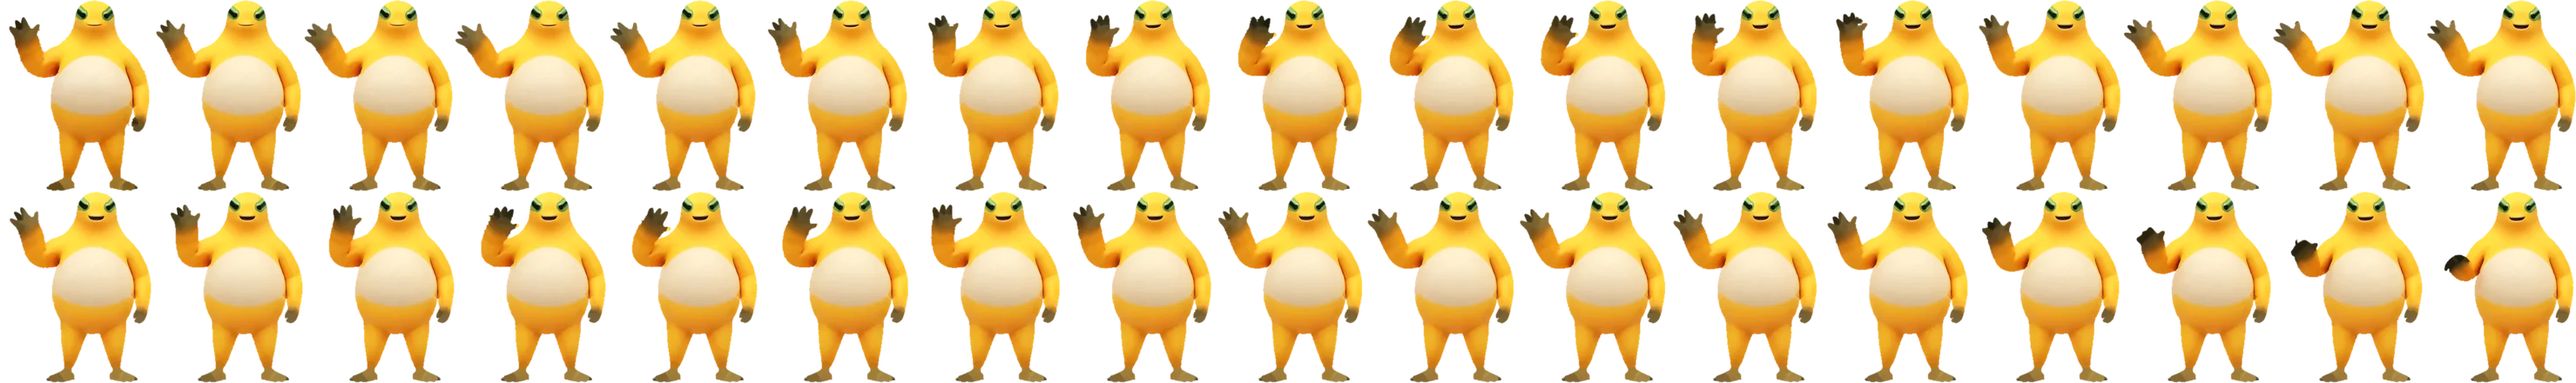
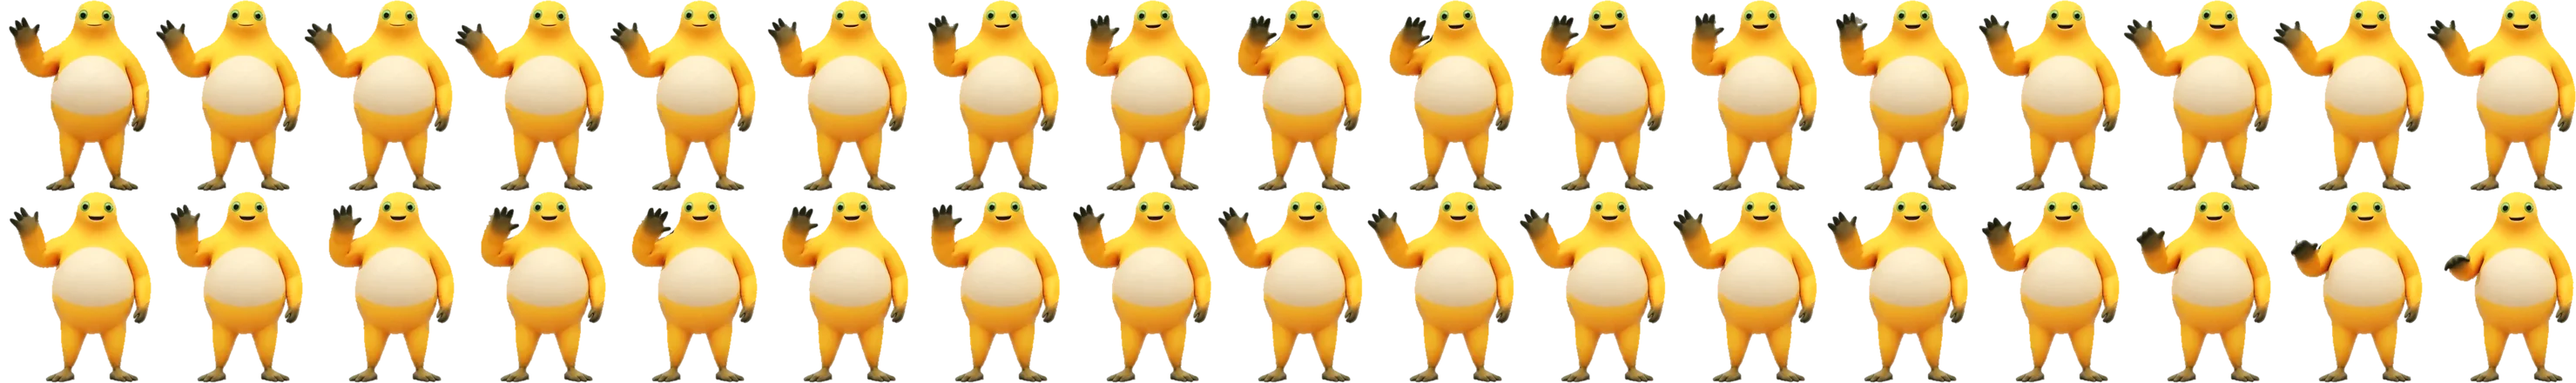
fix(deskpet): 挥手眼睛被压成斜块 + 打滚大笑亮度回调 0.9（第十一轮返工）

diff --git a/docs/Spec/SPEC-deskpet-action.md b/docs/Spec/SPEC-deskpet-action.md
@@ -833,3 +833,65 @@ bean-wave.webp              (232,166,40)
 可辨亮边，仍需用户目视 ②压暗 0.8 之后打滚/大笑会比站立明显暗一档，这是用户主动要的，
 但「暗一档是否好看」没有标准 ③挥手与打滚/大笑之间现在有约 1.2 倍亮度差，
 如果用户希望四支统一，需要再调一次方向。
+
+### 7.16 挥手的眼睛被压成斜块 + 打滚大笑亮度回调到 0.9（第十一轮返工）
+
+用户 2026-11-13 18:51 原话（附 106×87 截图）：「打滚和大笑亮度提高0.1 还有就是你看挥手，眼睛怎么变这样了」。
+
+**眼睛坏在哪（[实测] `.tmp/fix3/eye_zoom.py` → `.tmp/fix3/eye-zoom.png`，6× 放大）**：
+旧版（`dddefec`）是「黄绿眼白 + 深瞳 + 一圈白环」，7.15 那版变成一块**深色斜块**，白环被周围深色填掉。
+`.tmp/fix3/eye_dbg.py` 数深色像素总数几乎没变（1528 → 1554），所以不是「多了深色」，是**白环丢了**。
+
+**真因**：7.15 的 `core = MinFilter(25)(solid)` 是「整圈内缩 12px」。**眼白那圈白环只有几像素宽，
+整圈都落在内缩带里，被踢出「可信本体」，随后 `spread()` 用邻近的瞳孔/上眼睑深色把它填掉。**
+`.tmp/fix3/src_cell.py` → `src-cell6.png`（源帧按同一 `U` 裁缩到 174×220 当黄金基准）与
+`.tmp/fix3/cmp_all.py` → `cmp-all.png` 并排确认：**源帧眼睛是黄绿眼白 + 深瞳，坏的是后处理造的**。
+
+**第二轮试错（都别重试，全部只验指标或只验一个部位，顾此失彼）**：
+- `core=depth>RIM`（`.tmp/wave_rim12.py` 第一版）：+60.36，带中位 `(255,251,224)`。
+  原因是**抗锯齿带（alpha<250）的 `depth` 恒等于初始 9999**，被当成 core，白背景直接成了色源。
+  加 `&solid` 后 +6.60，但带内仍有 573 个偏亮像素。
+- 深度法 + 远处用每帧本体色兜底（`.tmp/wave_rim13.py`，RIM=16）：眼睛修好了，但**整只手被当成外圈替换成白斑**（`.tmp/fix3/eye3.py` → `eye3.png`），因为 RIM=16 比手还宽。
+- 半径扫描 RIM=6/8/10（`.tmp/wave_rim13.py`）：+7.25 / +6.24 / +6.40，`.tmp/fix3/cmp_r.py` 目视眼睛和手都保住，但白圈仍在（带中位 `(239,205,150)`，比身体黄亮一档）。
+- 只替换「比本体亮 THR」的边缘像素（`.tmp/wave_rim17.py`，IN=7、THR=14）：近白降到 6，但肚皮被压成大片平色（`v17-head.png`）。
+- `known=solid&(depth>IN)`（`.tmp/wave_rim16.py`，IN=5）：不透明近白只剩 17，但整只身体变成一片平整浅褐色（`v16-head.png`）——可信集太小，外推把渐变压平了。
+- `known=solid&((depth>IN)|(La<150))`（`.tmp/wave_rim18.py`）：近白 3、+17.81，仍不达标。
+- **指标本身也不可靠**（`.tmp/fix3/comp_halo.py`）：按「合成到深底后的亮度」重测，旧版 −39.01、r8 −77.55，
+  同一份图两个口径给出相反结论 ⇒ **这类改动只能以目视验收，指标仅作初筛。**
+
+**最终修法（`.tmp/wave_rim20.py` → `.tmp/fix3/wr20.webp`）**——在 7.15 的整圈替换基础上，
+再加一层「**必须保留原色的部位**」，把它们从替换范围里排除，同时并入可信集：
+
+```python
+green = (G > R+8) & (G > B+8) & solid        # 眼睛（黄绿）
+dark  = solid & (L(a) < 150)                 # 手脚/口腔/轮廓等深色薄部位
+prot  = solid & (dil(green, 6) | dark)
+known = core | prot
+body  = spread(a, known, iters=20, step=2)
+rgb   = np.where(prot[...,None], a, body) + delta   # 保护部位用原色，其余全用本体色
+```
+
+关键点：**眼睛不是「颜色要修」而是「必须一个像素都不许改」**，靠色相判据（G 明显大于 R 和 B）圈出来再膨胀 6px；
+深色薄部位（手指、脚趾、口腔）同理，用亮度 <150 圈出。保护像素 36838~53378 个/帧。
+
+**验收（[实测] `.tmp/fix3/cmp20-*.png`、`full20-dark.png`、`full20-light.png`）**：
+- 局部环比 **+1.65 → +3.45**（略升，因为保护部位保留了原片的边缘高光，这是有意的取舍）。
+- 不透明区近白像素 **13**（上一版 469，源帧基准的同一口径约 1127→已无从比较，但与 7.15 的 469 相比大幅下降）。
+- 目视 10 倍放大（`.tmp/fix3/cmp20-eye.png`）：**眼白环、绿虹膜、深瞳三者结构完整，与源帧一致**；
+  `.tmp/fix3/cmp20-toe.png` 脚趾缝回到源帧的层次（上一版是一坨平色）；
+  `.tmp/fix3/full20-dark.png` / `full20-light.png` 四帧整身对比，轮廓、手、肚皮渐变都对得上源帧。
+- 成品 **259352 B**（上一版 250624 B），尺寸 2958×440 / 17 列 × 2 行 / 每格 174×220 / 34 帧不变。
[1 lines of base64/hex data omitted]
+
+**同一轮：打滚/大笑亮度从 0.8 回调到 0.9（[实测]）**。用户原话「打滚和大笑亮度提高0.1」。
+做法是**先从 `.backups/*.bak.20261113-before-dark` 复位到 1.0，再乘 0.9**，
+不在 0.8 的结果上二次相乘（避免二次量化掉精度）：
+`bean-roll.webp` **343154 B**、`bean-laugh.webp` **554326 B**，身体黄中位 `(218,167,38)` / `(216,168,46)`
+（站立基准 `(238,177,41)`，约 0.91 倍）。
+
+**验证（[实测]）**：`npm run build` EXIT=0（`out/renderer/assets/bean-wave-LeLxlK2Z.webp 259.35 kB`）；
+`e2e-deskpet-out` **PASS（83 过 / 0 败）**；回归 `e2e-deskpet` 33/0、`e2e-head-order` 14/0、
+`e2e-collapse-order` 22/0、`e2e-settings-shell` 51/0、`e2e-m2` PASS。
+
+**未验证**：①真人观感（106×140 显示尺寸下眼睛是否真的恢复、白边是否真的没了）②0.9 亮度是否合用户意
+③眼角保护用的是固定色相判据（G 比 R、B 各高 8），换素材或换光照要重测。

diff --git a/docs/状态.md b/docs/状态.md
@@ -1,3 +1,4 @@
+> **2026-11-13 19:05 一句话状态**：挥手的眼睛与白边已修好（rim20：眼睛/手脚保留原色，其余整圈换本体色），打滚与大笑亮度按用户要求从 0.8 回调到 0.9；分支 `deskpet-wave` HEAD 待提交，`main` 仍是 `6e99d0c`。
 # 当前状态
 
 > 本文件负责唯一事实：**现在**项目到哪一步了、下次开工从哪接。
